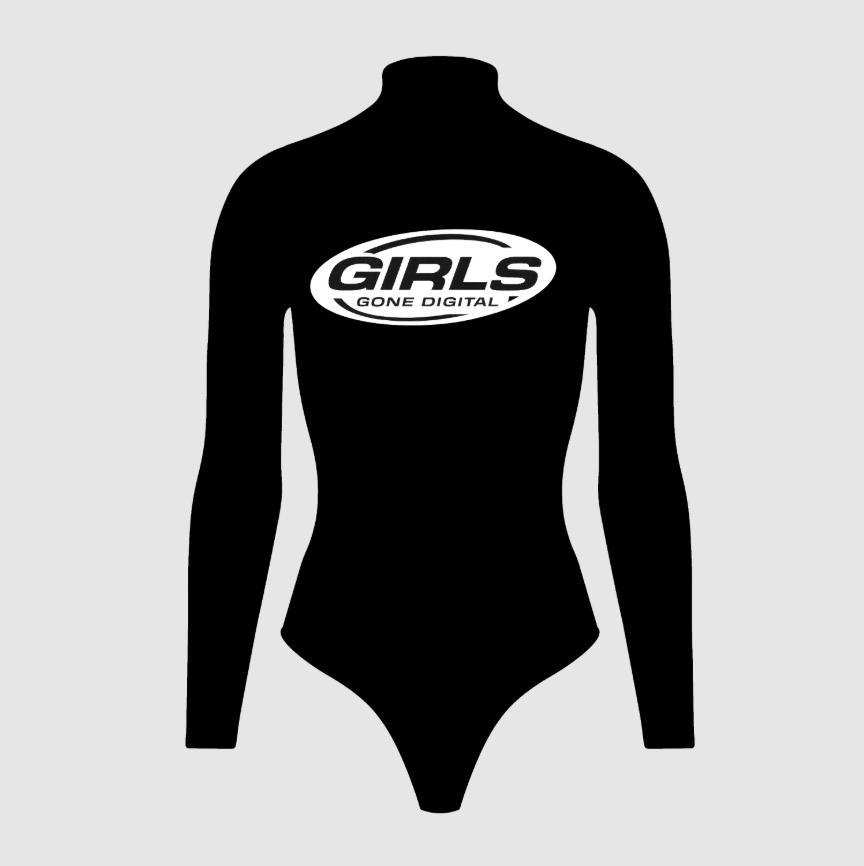
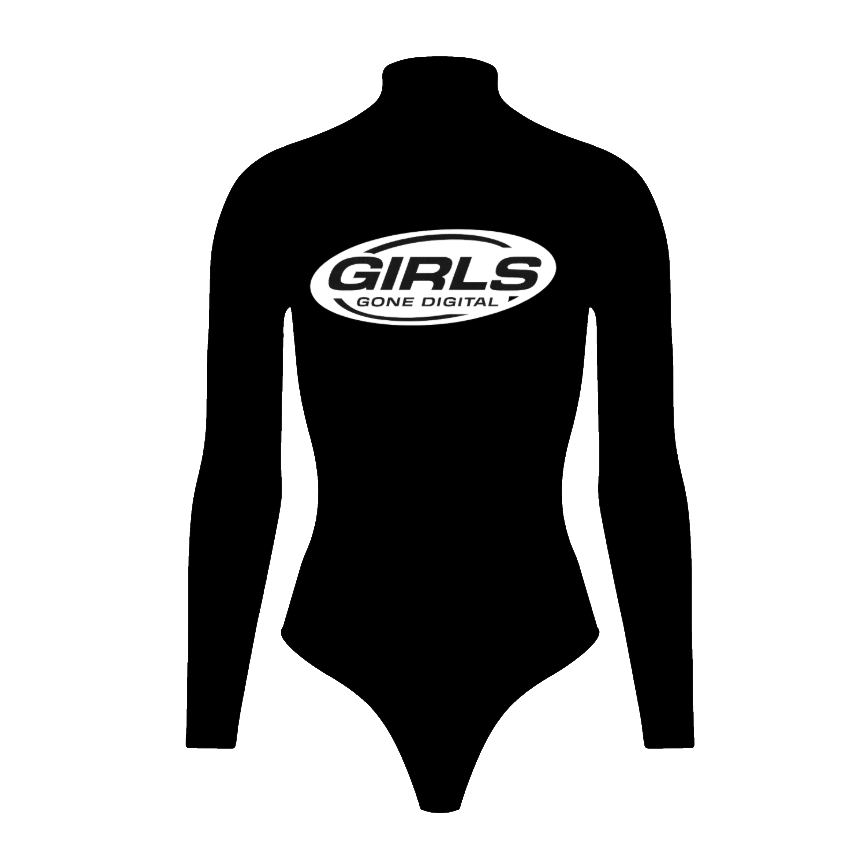
Match the long sleeve onesie background to the other shop photos.
The black long sleeve hero had a flat gray fill. It is now clear so the same warm card color shows through.

diff --git a/pages/shop.html b/pages/shop.html
@@ -364,7 +364,7 @@
           <div class="merch-item-image-wrap has-multiple" data-card-carousel>
             <a href="product-onesie-long-blk.html" class="merch-item-image">
               <div class="merch-item-image-track">
-                <div class="merch-item-image-slide"><img src="../assets/product-onesie-long-blk-hero.png?v=6" alt="GGD Long Sleeve Onesie Black"></div>
+                <div class="merch-item-image-slide"><img src="../assets/product-onesie-long-blk-hero.png?v=7" alt="GGD Long Sleeve Onesie Black"></div>
                 <div class="merch-item-image-slide"><img src="../assets/product-onesie-long-blk-model-1.png?v=2" alt="GGD Long Sleeve Onesie"></div>
                 <div class="merch-item-image-slide"><img src="../assets/product-onesie-long-blk-model-2.png?v=2" alt="GGD Long Sleeve Onesie"></div>
                 <div class="merch-item-image-slide"><img src="../assets/product-onesie-long-blk-model-3.png?v=2" alt="GGD Long Sleeve Onesie"></div>

diff --git a/pages/product-onesie-long-blk.html b/pages/product-onesie-long-blk.html
@@ -217,7 +217,7 @@
     <section class="product-section">
       <div class="product-carousel" id="onesieCarousel">
         <div class="carousel-track">
-          <div class="carousel-slide carousel-slide-hero"><img src="../assets/product-onesie-long-blk-hero.png?v=6" alt="GGD Long Sleeve Onesie Black"></div>
+          <div class="carousel-slide carousel-slide-hero"><img src="../assets/product-onesie-long-blk-hero.png?v=7" alt="GGD Long Sleeve Onesie Black"></div>
           <div class="carousel-slide"><img src="../assets/product-onesie-long-blk-model-1.png?v=2" alt="GGD Long Sleeve Onesie"></div>
           <div class="carousel-slide"><img src="../assets/product-onesie-long-blk-model-2.png?v=2" alt="GGD Long Sleeve Onesie"></div>
           <div class="carousel-slide"><img src="../assets/product-onesie-long-blk-model-3.png?v=2" alt="GGD Long Sleeve Onesie"></div>

diff --git a/assets/iteration.js b/assets/iteration.js
@@ -2,4 +2,4 @@
  * Bump this number each time you post a new GitHub update.
  * Displayed in the site footer as "GitHub update Iteration #0010", etc.
  */
-window.GGD_ITERATION = 31;
+window.GGD_ITERATION = 32;
